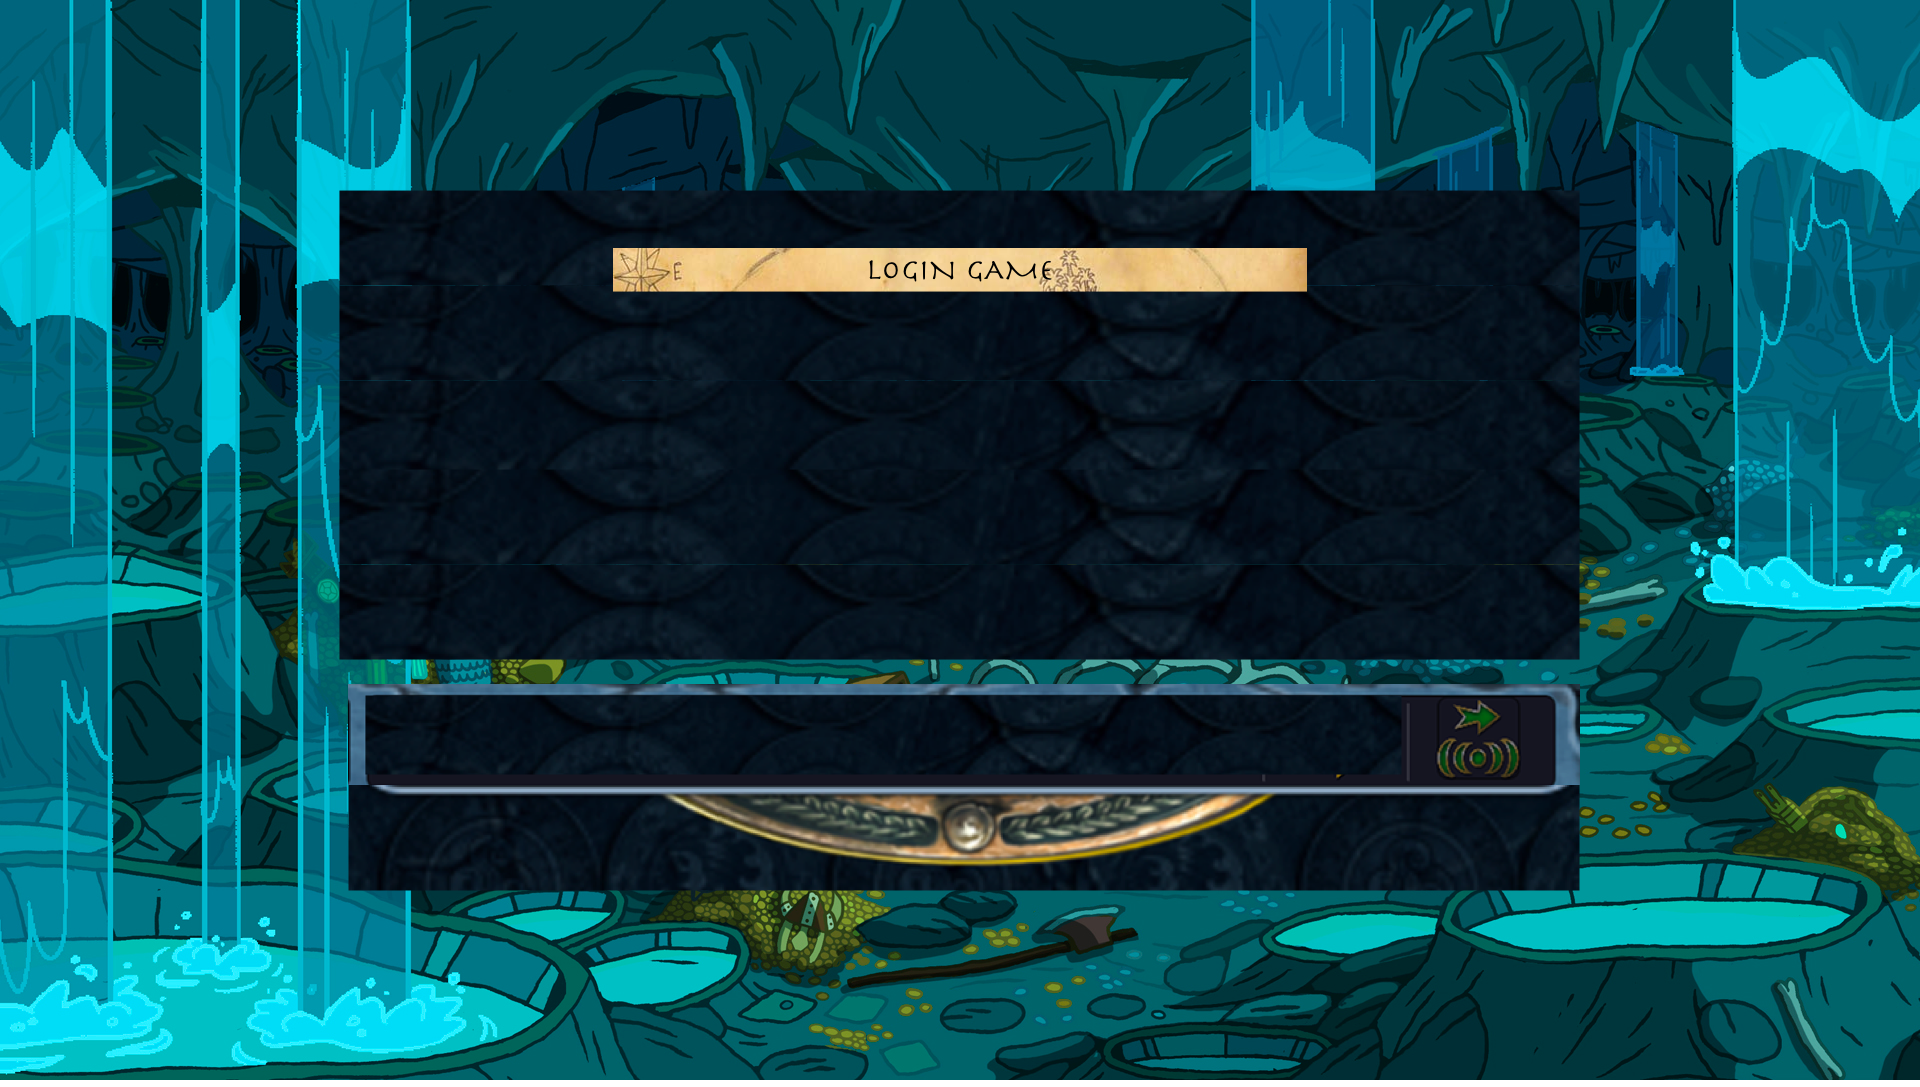
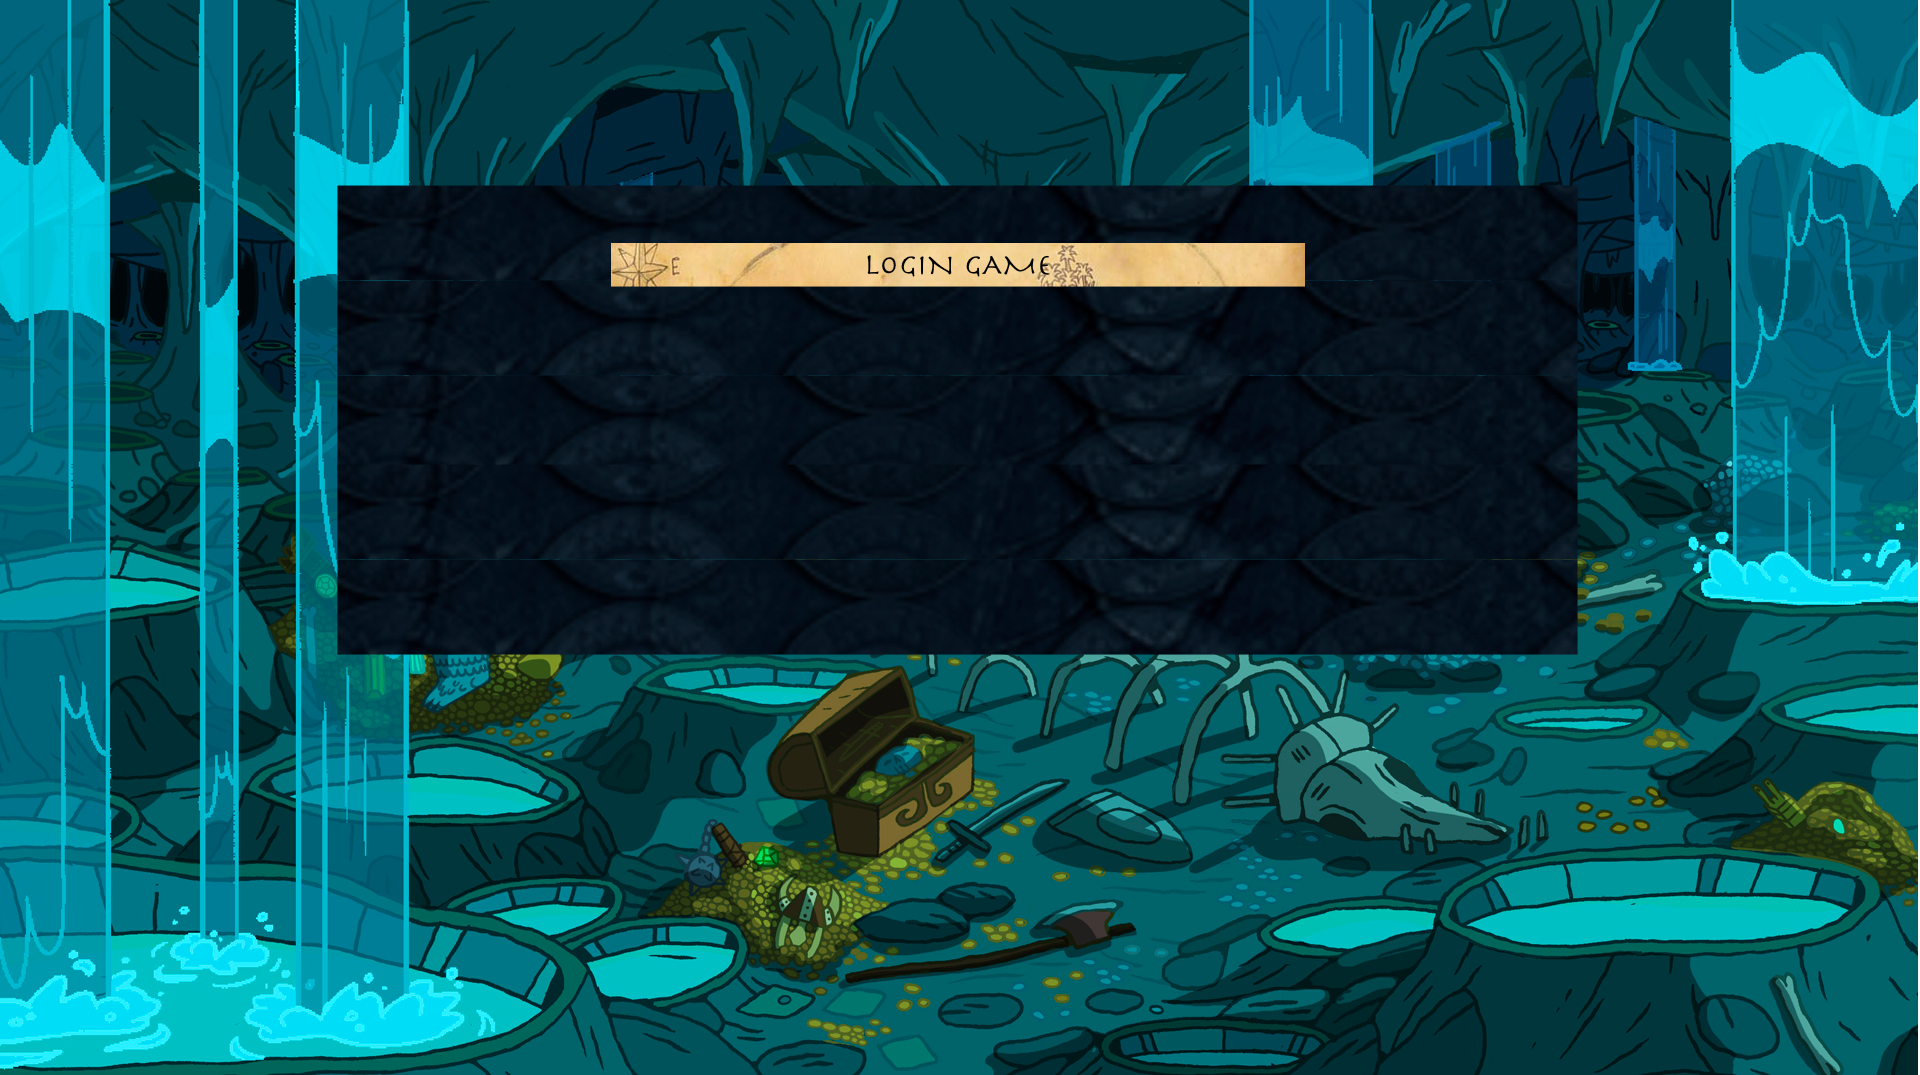
login UI update, gameStateWrapper methods added

diff --git a/src/main/resources/gameSceneManager/loginMenu.css b/src/main/resources/gameSceneManager/loginMenu.css
@@ -30,3 +30,7 @@
     -fx-background-size: cover, auto;
     -fx-text-fill: WHITE;
 }
+
+#statusLabel {
+    -fx-text-fill: WHITE;
+}

diff --git a/src/main/java/gameSceneManager/LoginMenuController.java b/src/main/java/gameSceneManager/LoginMenuController.java
@@ -4,11 +4,15 @@ import javafx.animation.FadeTransition;
 import javafx.scene.Parent;
 import javafx.scene.Scene;
 import javafx.scene.control.Button;
+import javafx.scene.control.Label;
+import javafx.scene.control.PasswordField;
+import javafx.scene.control.TextField;
 import javafx.scene.image.ImageView;
 import javafx.stage.Stage;
 import javafx.util.Duration;
 
 import java.io.IOException;
+import java.util.HashMap;
 
 import static gameSceneManager.App.loadFXML;
 
@@ -19,9 +23,14 @@ import static gameSceneManager.App.loadFXML;
  */
 
 public class LoginMenuController extends SceneController {
+    static HashMap<String, String> loginGameState;
     // Properties
     ImageView goBackImg;
     Button submitBtn;
+    TextField usernameField;
+    PasswordField passwordField;
+    Label statusLabel;
+
 
     public LoginMenuController(Stage stage) throws IOException {
 
@@ -32,25 +41,27 @@ public class LoginMenuController extends SceneController {
             e.printStackTrace();
         }
         // scene = stage.getScene(); // NOTE: This causes error in exec
-        scene = new Scene(super.root);
+        super.scene = new Scene(super.root);
         initController(stage);
     }
 
 
     @Override
     public void initController(Stage stage) throws IOException {
-        scene.getStylesheets().clear();
-        scene.getStylesheets().add(getClass().getResource("loginMenu.css").toExternalForm());
-        stage.setScene(scene);
+        super.scene.getStylesheets().clear();
+        super.scene.getStylesheets().add(getClass().getResource("loginMenu.css").toExternalForm());
+        stage.setScene(super.scene);
         stage.show();
 
         // Return to the main window
-        goBackImg = (ImageView) scene.lookup("#goBackImg");
-        submitBtn = (Button) scene.lookup("#submitBtn");
+        goBackImg = (ImageView) super.scene.lookup("#goBackImg");
+        submitBtn = (Button) super.scene.lookup("#submitBtn");
+        usernameField = (TextField) super.scene.lookup("#usernameField");
+        passwordField = (PasswordField) super.scene.lookup("#passwordField");
+        statusLabel = (Label) super.scene.lookup("#statusLabel");
 
 
         Parent finalRoot = super.root;
-
         goBackImg.setOnMouseClicked(event -> {
             FadeTransition fadeAnimation = new FadeTransition(Duration.seconds(1), finalRoot);
             fadeAnimation.setOnFinished(event1 ->
@@ -65,6 +76,10 @@ public class LoginMenuController extends SceneController {
             fadeAnimation.play();
         });
         submitBtn.setOnMouseClicked(event -> {
+            String enteredName = usernameField.getText();
+            String enteredPassword = passwordField.getText();
+            // TODO: Implement GameStateWrapper.validateUsername
+            //if(GameStateWrapper.validateUsername(enteredName, enteredPassword));
             FadeTransition fadeAnimation = new FadeTransition(Duration.seconds(1), finalRoot);
             fadeAnimation.setOnFinished(event1 ->
             {
@@ -77,7 +92,5 @@ public class LoginMenuController extends SceneController {
             });
             fadeAnimation.play();
         });
-
     }
-
 }

diff --git a/src/main/java/gameSceneManager/GameStateWrapper.java b/src/main/java/gameSceneManager/GameStateWrapper.java
@@ -6,6 +6,7 @@ import javafx.scene.paint.Color;
 /**
  * Class for fetching the game state from UI scenes
  * Created for establishing a protocol between logic and UI
+ * Turn this class into an instance, test the class
  * Place the logic items  UI use
  * @author Zeynep Cankara
  * @version 17.05.2020
@@ -88,7 +89,17 @@ public class GameStateWrapper {
         placePriestPosition = LocalGameController.gameStateLocal.get("priestInitPos");
     }
 
-    //TODO: Setters from Logic
+    //TODO: Functions needed for UI interactions
+
+    /**
+     * Lookup to see whether user exists in the database
+     * @param username username entered  by the user
+     * @param password password entered by the user
+     */
+    public static boolean validateUsername(String username, String password){
+        //TODO: Establish server communication
+        return true;
+    }
 
 
 }

diff --git a/src/main/java/gameSceneManager/GameSetupController.java b/src/main/java/gameSceneManager/GameSetupController.java
@@ -160,7 +160,6 @@ public class GameSetupController extends SceneController {
             // remember the selected faction
             Integer finalI = i;
             factionImageViews[i].setOnMouseClicked(event -> {
-                System.out.println("select: " + factionNames[finalI]);
                 // Note: Used the index of factionNames as Id
                 factionId = finalI;
                 factionName = factionNames[finalI];
